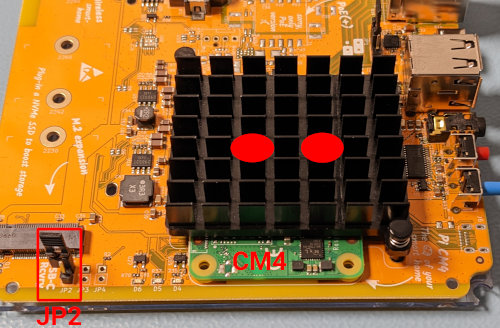
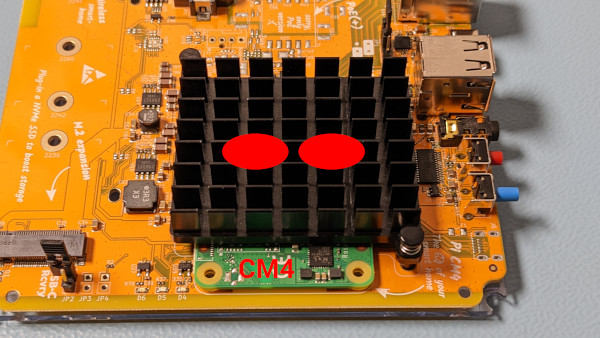
Split no/red LED into two FAQ entries (#94)
* Split no/red LED into two FAQ entries

* Increase saturation to make the image look more alike

diff --git a/src/support.html b/src/support.html
@@ -10,23 +10,36 @@ faqs:
       If that does not help, you may be able to find the IP address of Home
       Assistant Yellow on your router. The URL will be <code>http://&lt;IP ADDRESS>:8123</code>
   - title: >
-      My Home Assistant Yellow appears broken (no LEDs, or only red LED).
-      What can I do?
+      My Home Assistant Yellow appears broken, no LED is lighting up. What can I do?
     content: >
       <p>
-        The green Compute Module 4 might have gotten unseated during transportation.
-        Open the Yellow enclosure and make sure the green PCB is seated correctly.
-        Especially check if its well aligned with the white outline on the PCB.
-        If the green PCB is not aligned, align it first before pressing onto
-        the heat-sink. If the green PCB is aligned, press onto the heat-sink on
-        the two marked spots (centered above the CPU/SoC) to snap the CM4 in
-        place.
+        The green Compute Module 4 (CM4) might not be seated correctly.
+        Open the Yellow enclosure and check if the green CM4 PCB is parallel to
+        the Yellow PCB.
       </p>
+
+      <p><img src="/images/faq-unseated-side-view.jpeg" /></p>
+
       <p>
-        Make sure that the jumper JP2 is not connected. This means the jumper is only touching one of the pins, not both.
+        If this is not the case, check if the CM4 is well aligned with the
+        white outline on the Yellow PCB. If the CM4 is not aligned, align it
+        first before pressing onto the heat-sink. For that you will have to
+        remove the heat-sink first. If the green PCB is aligned, press onto
+        the heat-sink on the two marked spots (centered above the CPU/SoC) to
+        snap the CM4 in place.
       </p>
 
       <p><img src="/images/faq-unseated-cm4-heat-sink-press.jpeg" /></p>
+  - title: >
+      My Home Assistant Yellow lights up the red LED only. What can I do?
+    content: >
+      <p>
+        Most likely your Compute Module 4 is in USB boot mode. Make sure that
+        the jumper JP2 is not connected. This means the jumper is only touching
+        one of the pins, not both.
+      </p>
+
+      <p><img src="/images/faq-check-jp2.jpeg" /></p>
   - title: Can I factory reset the system?
     content: >
       <p>

diff --git a/src/_includes/style.css b/src/_includes/style.css
@@ -426,7 +426,7 @@ hr {
 }
 .accordion button[aria-expanded='true'] + .accordion-content {
   opacity: 1;
-  max-height: 40em;
+  max-height: 60em;
   transition: all 200ms linear;
   will-change: opacity, max-height;
 }
